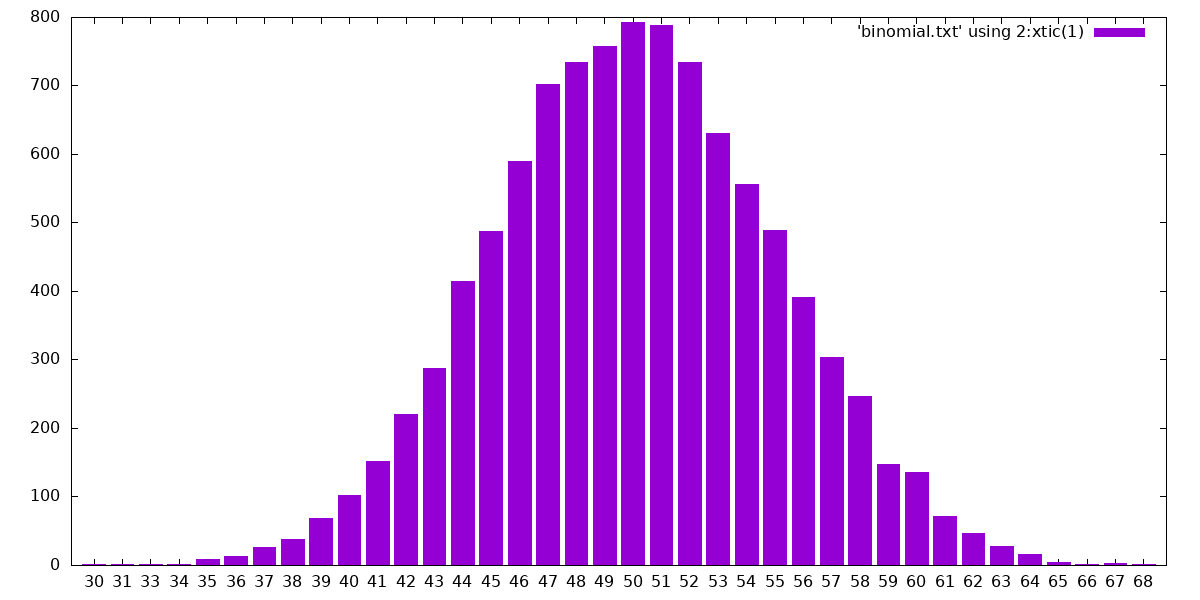
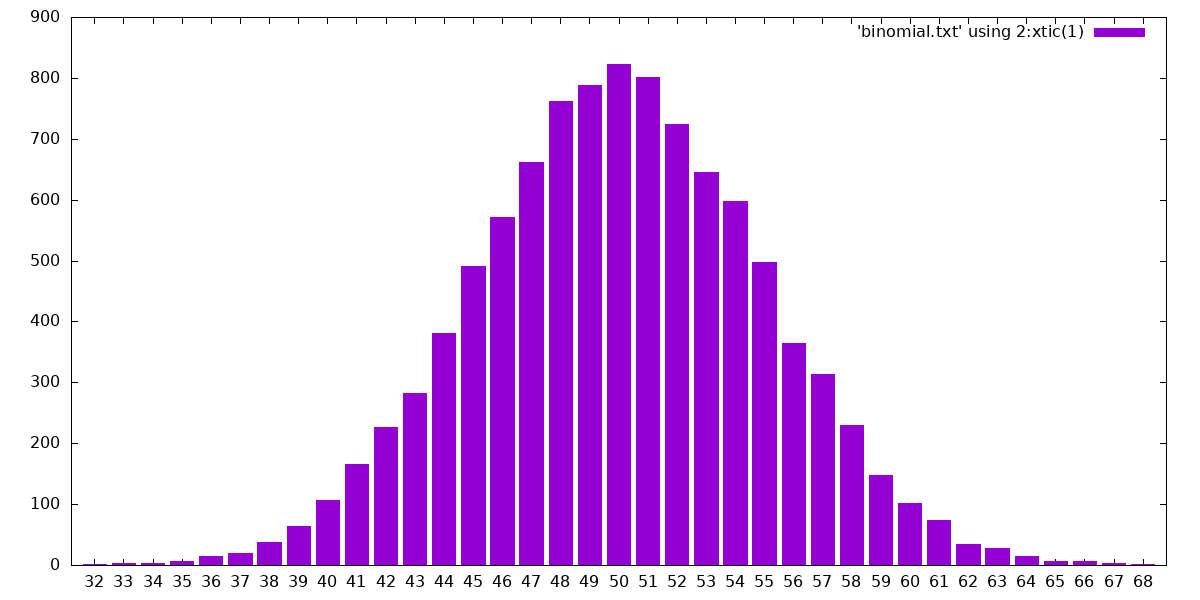
media y varianza

diff --git a/main.py b/main.py
@@ -1,6 +1,8 @@
 import random
 import sys
+import statistics
 
+# variables de bernoulli
 def ber(p):
     if random.random() <= p:
         # pasa la prueba
@@ -9,6 +11,7 @@ def ber(p):
         # no pasa la prueba
         return False
 
+# variables binomiales
 def bin(p):
     # variable que recoge el numero de exitos
     exitos = 0
@@ -21,6 +24,7 @@ def bin(p):
     # devolvemos el numero de exitos
     return exitos
 
+# muestra de valores binomiales
 def valores_binomial(n, p):
     # almacenaremos los resultados en un array
     resultado = []
@@ -35,6 +39,16 @@ def valores_binomial(n, p):
     # devolvemos el array de valores
     return resultado
 
+# calcular la media
+def media(X):
+    suma = sum(X)
+    media = suma / len(X)
+    return media
+
+# calcular la varianza
+def varianza(X):
+    var = statistics.variance(X)
+    return var
 
 def main():
     input("Bienvenido a mi trabajo de simulacion (presione ENTER para continuar)")
@@ -55,7 +69,7 @@ def main():
 
     print("la muestra ha sido generada")
 
-    # muestra los valores por terminal
+    # muestra los valores por terminal si recibe el argumento --verbose
     if len(sys.argv) > 1 and sys.argv[1] == "--verbose":
         print("los valores son estos: ")
         print(valores)
@@ -71,6 +85,17 @@ def main():
             file.write(f"{value} {frequency}\n")
 
     print("los datos de la distribucion binomial han sido guardados en el fichero binomial.txt")
-    input("usa 'gnuplot binomial.txt' para generar el historiograma (ENTER )")
+    input("usa 'gnuplot binomial.p' para generar el historiograma (ENTER para continuar)")
+
+    # estimacion puntual de la media y la varianza
+    m = media(valores)
+    v = varianza(valores)
+
+    print("la media de esta muestra es: ")
+    print(m)
+    print("la varianza de esta muestra es: ")
+    print(v)
+    input("presione ENTER para continuar")
+
 if __name__ == "__main__":
     main()
